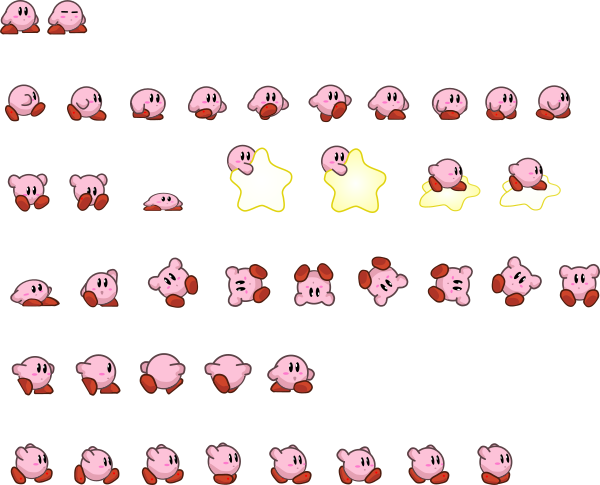
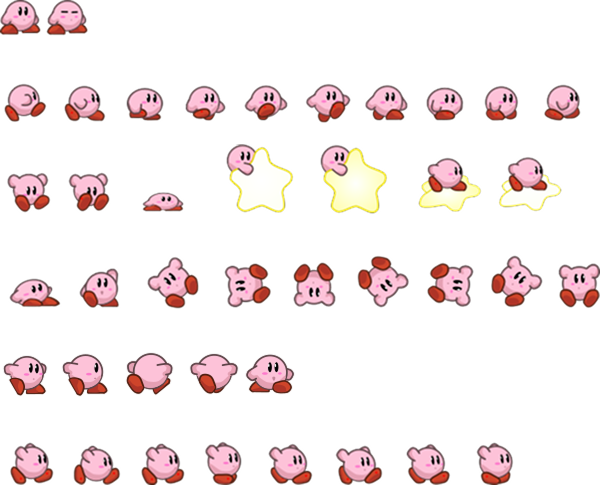
커비/웨이들디 이미지 잘리거나 눌리는 현상 수정 / 다만 애들이 너무 작아짐

diff --git a/src/setup/stage_config.js b/src/setup/stage_config.js
@@ -29,23 +29,23 @@ function createStageUnitConfig(stage, imageList = [], spriteSheetList = []) {
             },
             walk: {
               frameCount: 10,
-              frameWidth: 45,
-              frameHeight: 45,
+              frameWidth: 60,
+              frameHeight: 60,
               startX: 0,
-              startY: 80,
+              startY: 64,
               speed: 5,
               scale: 0.3,
-              spacing: 15,
+              spacing: 0,
             },
             attack: {
               frameCount: 4,
-              frameWidth: 45,
-              frameHeight: 45,
-              startX: 11,
-              startY: 345,
+              frameWidth: 60,
+              frameHeight: 60,
+              startX: 0,
+              startY: 336,
               speed: 3,
               scale: 0.3,
-              spacing: 21,
+              spacing: 0,
             },
           }
         ),
@@ -53,7 +53,7 @@ function createStageUnitConfig(stage, imageList = [], spriteSheetList = []) {
           "WaddleDee",
           imageList[1],
           15,
-          50,
+          32,
           32,
           0.4,
           0,
@@ -76,9 +76,9 @@ function createStageUnitConfig(stage, imageList = [], spriteSheetList = []) {
             walk: {
               frameCount: 10,
               frameWidth: 133,
-              frameHeight: 94,
+              frameHeight: 133,
               startX: 0,
-              startY: 110,
+              startY: 81,
               speed: 5,
               scale: 1.0,
               spacing: 0,
@@ -86,11 +86,11 @@ function createStageUnitConfig(stage, imageList = [], spriteSheetList = []) {
             attack: {
               frameCount: 4,
               frameWidth: 133,
-              frameHeight: 94,
+              frameHeight: 133,
               startX: 9,
-              startY: 580,
+              startY: 548,
               speed: 3,
-              scale: 1.5,
+              scale: 1.5, 
             },
           }
         ),
